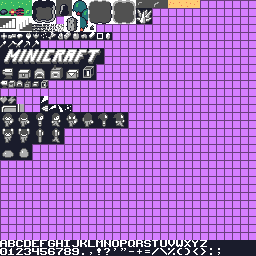
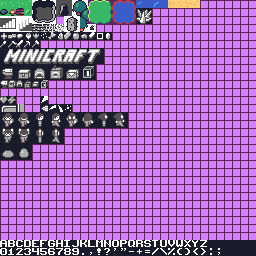
added working grass tile

Changed region(s): [[0.0, 0.0, 1.0, 0.9375]]

diff --git a/src/main/java/dev/toastcie/customcraft/tile/rules/TileRules.java b/src/main/java/dev/toastcie/customcraft/tile/rules/TileRules.java
@@ -38,6 +38,68 @@ public class TileRules {
         this.defaultBottomRight = defaultBottomRight;
     }
 
+    public static TileRules basicConnectedRules(
+            String connectedId,
+
+            ISprite defaultTopLeft,
+            ISprite defaultTopRight,
+            ISprite defaultBottomLeft,
+            ISprite defaultBottomRight,
+
+            // side sprites
+            ISprite linkedTop,
+            ISprite linkedRight,
+            ISprite linkedBottom,
+            ISprite linkedLeft,
+
+            // corner sprites
+            ISprite linkedTopLeft,
+            ISprite linkedTopRight,
+            ISprite linkedBottomRight,
+            ISprite linkedBottomLeft,
+
+            ISprite flat,
+
+            boolean fg
+    ) {
+        TileRules connectedRules = new TileRules(
+                linkedTopLeft,
+                linkedTopRight,
+                linkedBottomLeft,
+                linkedBottomRight);
+
+        // Top Left
+        connectedRules
+                .addTopLeftRule(TileRule.builder(defaultTopLeft, 0b000_001_011, connectedId, 13, fg))
+                .addTopLeftRule(TileRule.builder(flat, 0b000_001_010, connectedId, 11, fg))
+                .addTopLeftRule(TileRule.builder(linkedTop, 0b000_001_000, connectedId, 7, fg))
+                .addTopLeftRule(TileRule.builder(linkedLeft, 0b000_000_010, connectedId, 5, fg));
+
+        // Top Right
+        connectedRules
+                .addTopRightRule(TileRule.builder(defaultTopRight, 0b000_100_110, connectedId, 13, fg))
+                .addTopRightRule(TileRule.builder(flat, 0b000_100_010, connectedId, 11, fg))
+                .addTopRightRule(TileRule.builder(linkedTop, 0b000_100_000, connectedId, 7, fg))
+                .addTopRightRule(TileRule.builder(linkedRight, 0b000_000_010, connectedId, 5, fg));
+
+        // Bottom Left
+        connectedRules
+                .addBottomLeftRule(TileRule.builder(defaultBottomLeft, 0b011_001_000, connectedId, 13, fg))
+                .addBottomLeftRule(TileRule.builder(flat, 0b010_001_000, connectedId, 11, fg))
+                .addBottomLeftRule(TileRule.builder(linkedLeft, 0b010_000_000, connectedId, 7, fg))
+                .addBottomLeftRule(TileRule.builder(linkedBottom, 0b000_001_000, connectedId, 5, fg));
+
+        // Bottom Right
+        connectedRules
+                .addBottomRightRule(TileRule.builder(defaultBottomRight, 0b110_100_000, connectedId, 13, fg))
+                .addBottomRightRule(TileRule.builder(flat, 0b010_100_000, connectedId, 11, fg))
+                .addBottomRightRule(TileRule.builder(linkedRight, 0b010_000_000, connectedId, 7, fg))
+                .addBottomRightRule(TileRule.builder(linkedBottom, 0b000_100_000, connectedId, 5, fg));
+
+
+        return connectedRules.build();
+    }
+
     public static TileRules treeRulesBuilder(
             String TreeId,
 
@@ -64,6 +126,7 @@ public class TileRules {
 
         return treeRules.build();
     }
+
 
     public TileRules addTopLeftRule(TileRule... rules) {
         this.topLeftRules.addAll(Arrays.asList(rules));

diff --git a/src/main/java/dev/toastcie/customcraft/tile/tiletype/GrassTile.java b/src/main/java/dev/toastcie/customcraft/tile/tiletype/GrassTile.java
@@ -1,32 +1,36 @@
 package dev.toastcie.customcraft.tile.tiletype;
 
-import dev.toastcie.customcraft.data.GlobalData;
-import dev.toastcie.customcraft.level.Level;
-import dev.toastcie.customcraft.math.Vector4;
-import dev.toastcie.customcraft.tile.BaseTile;
+import dev.toastcie.customcraft.tile.ConnectedTile;
 import dev.toastcie.customcraft.tile.PictureManager;
+import dev.toastcie.customcraft.tile.rules.TileRules;
 
-import java.awt.*;
-import java.awt.image.BufferedImage;
-
-public class GrassTile extends BaseTile {
+public class GrassTile extends ConnectedTile {
     public GrassTile() {
         super("grass",
-                PictureManager.instance.getImage("grass_0"),
-                PictureManager.instance.getImage("grass_1"),
-                PictureManager.instance.getImage("grass_2"),
-                PictureManager.instance.getImage("grass_4")
+                TileRules.basicConnectedRules(
+                        "grass",
+
+                        PictureManager.instance.getImage("grass_0"),
+                        PictureManager.instance.getImage("grass_1"),
+                        PictureManager.instance.getImage("grass_2"),
+                        PictureManager.instance.getImage("grass_3"),
+
+
+                        // side sprites
+                        PictureManager.instance.getImage("grass_t"),
+                        PictureManager.instance.getImage("grass_r"),
+                        PictureManager.instance.getImage("grass_b"),
+                        PictureManager.instance.getImage("grass_l"),
+
+                        // corner sprites
+                        PictureManager.instance.getImage("grass_tl"),
+                        PictureManager.instance.getImage("grass_tr"),
+                        PictureManager.instance.getImage("grass_br"),
+                        PictureManager.instance.getImage("grass_bl"),
+
+                        PictureManager.instance.getImage("grass_0"),
+                        false
+                )
         );
-    }
-
-
-    @Override
-    public void place(Graphics g, Level level, int x, int y, int i, int j) {
-        Vector4<BufferedImage> tiles = getImage(level, i, j);
-        int hwidth = GlobalData.tileWidth / 2;
-        g.drawImage(tiles.x, x, y, hwidth, hwidth, null);
-        g.drawImage(tiles.y, x + hwidth, y, hwidth, hwidth, null);
-        g.drawImage(tiles.z, x, y + hwidth, hwidth, hwidth, null);
-        g.drawImage(tiles.w, x + hwidth, y + hwidth, hwidth, hwidth, null);
     }
 }

diff --git a/src/main/java/dev/toastcie/customcraft/tile/PictureManager.java b/src/main/java/dev/toastcie/customcraft/tile/PictureManager.java
@@ -74,11 +74,15 @@ public class PictureManager {
         addStaticImage("grass_1", new Rect<>(8, 0, 8, 8));
         addStaticImage("grass_2", new Rect<>(16, 0, 8, 8));
         addStaticImage("grass_3", new Rect<>(24, 0, 8, 8));
-        addAnimatedImage("grass_4", 10,
-                new Rect<>(0, 0, 8, 8),
-                new Rect<>(8, 0, 8, 8),
-                new Rect<>(16, 0, 8, 8),
-                new Rect<>(24, 0, 8, 8));
+
+        addStaticImage("grass_tl", new Rect<>(88, 0, 8, 8));
+        addStaticImage("grass_t", new Rect<>(96, 0, 8, 8));
+        addStaticImage("grass_tr", new Rect<>(104, 0, 8, 8));
+        addStaticImage("grass_l", new Rect<>(88, 8, 8, 8));
+        addStaticImage("grass_r", new Rect<>(104, 8, 8, 8));
+        addStaticImage("grass_bl", new Rect<>(88, 16, 8, 8));
+        addStaticImage("grass_b", new Rect<>(96, 16, 8, 8));
+        addStaticImage("grass_br", new Rect<>(104, 16, 8, 8));
 
         addStaticImage("flower", new Rect<>(8, 8, 8, 8));
 
@@ -90,5 +94,28 @@ public class PictureManager {
 
         addStaticImage("tree_connected_tl_br", new Rect<>(80, 8, 8, 8));
         addStaticImage("tree_connected_tr_bl", new Rect<>(80, 16, 8, 8));
+
+        //water
+        addStaticImage("water_tl", new Rect<>(112, 0, 8, 8));
+        addStaticImage("water_t", new Rect<>(120, 0, 8, 8));
+        addStaticImage("water_tr", new Rect<>(128, 0, 8, 8));
+        addStaticImage("water_l", new Rect<>(112, 8, 8, 8));
+        addStaticImage("water_flat", new Rect<>(120, 8, 8, 8));
+        addStaticImage("water_r", new Rect<>(128, 8, 8, 8));
+        addStaticImage("water_bl", new Rect<>(112, 16, 8, 8));
+        addStaticImage("water_b", new Rect<>(120, 16, 8, 8));
+        addStaticImage("water_br", new Rect<>(128, 16, 8, 8));
+
+        addAnimatedImage("water_anim_0", 30,
+                new Rect<>(136, 0, 8, 8),
+                new Rect<>(152, 0, 8, 8),
+                new Rect<>(144, 0, 8, 8),
+                new Rect<>(160, 0, 8, 8));
+
+        addAnimatedImage("water_anim_1", 30,
+                new Rect<>(144, 0, 8, 8),
+                new Rect<>(160, 0, 8, 8),
+                new Rect<>(136, 0, 8, 8),
+                new Rect<>(152, 0, 8, 8));
     }
 }

diff --git a/src/main/java/dev/toastcie/customcraft/level/generators/Superflat.java b/src/main/java/dev/toastcie/customcraft/level/generators/Superflat.java
@@ -20,29 +20,32 @@ public class Superflat extends Generator {
         BaseTile G = TileAtlas.GRASS_TILE;
         BaseTile F = TileAtlas.FLOWER_TILE;
         BaseTile T = TileAtlas.TREE_TILE;
+        BaseTile W = TileAtlas.WATER_TILE;
         BaseTile E = null;
 
-        BaseTile[][] decobg = {
-                {G, G, G, G, G, G, G, G, G, G},
-                {G, G, G, G, G, G, G, G, G, G},
-                {G, G, F, G, G, G, F, G, F, G},
-                {G, G, G, G, G, G, G, G, F, F},
-                {G, G, G, F, G, G, G, F, G, F},
-                {G, G, G, G, G, G, G, G, G, F},
-        };
+
         BaseTile[][] fg = {
                 {E, E, E, E, E, E, E, E, E, E},
-                {E, T, T, T, E, E, E, E, E, E},
-                {E, T, T, T, T, E, E, E, E, E},
-                {E, T, T, T, T, E, E, E, E, E},
-                {E, E, E, T, T, E, E, E, E, E},
                 {E, E, E, E, E, E, E, E, E, E},
+                {E, T, T, T, T, E, E, E, E, E},
+                {E, T, T, T, T, E, E, E, E, E},
+                {E, E, E, T, T, E, E, F, F, E},
+                {E, E, E, E, E, E, F, E, F, E},
+        };
+
+        BaseTile[][] bg = {
+                {G, G, G, G, G, G, G, G, G, G},
+                {G, W, W, W, W, W, W, W, W, G},
+                {G, G, G, G, G, G, G, W, W, G},
+                {G, G, G, G, G, G, G, G, G, G},
+                {G, G, G, G, G, G, G, G, G, G},
+                {G, G, G, G, G, G, G, G, G, G},
         };
 
         for (int x = 0; x < width; x++) {
             for (int y = 0; y < height; y++) {
-                level.setBackgroundTile(x, y, decobg[y % decobg.length][x % decobg[0].length]);
                 level.setTile(x, y, fg[y % fg.length][x % fg[0].length]);
+                level.setBackgroundTile(x, y, bg[y % bg.length][x % bg[0].length]);
             }
         }
 

diff --git a/src/main/java/dev/toastcie/customcraft/tile/tiletype/WaterTile.java b/src/main/java/dev/toastcie/customcraft/tile/tiletype/WaterTile.java
@@ -1,0 +1,33 @@
+package dev.toastcie.customcraft.tile.tiletype;
+
+import dev.toastcie.customcraft.tile.ConnectedTile;
+import dev.toastcie.customcraft.tile.PictureManager;
+import dev.toastcie.customcraft.tile.rules.TileRules;
+
+public class WaterTile extends ConnectedTile {
+
+    public WaterTile() {
+        super("water",
+                TileRules.basicConnectedRules(
+                        "water",
+                        PictureManager.instance.getImage("water_anim_0"),
+                        PictureManager.instance.getImage("water_flat"),
+                        PictureManager.instance.getImage("water_flat"),
+                        PictureManager.instance.getImage("water_anim_1"),
+
+                        PictureManager.instance.getImage("water_t"),
+                        PictureManager.instance.getImage("water_r"),
+                        PictureManager.instance.getImage("water_b"),
+                        PictureManager.instance.getImage("water_l"),
+
+                        PictureManager.instance.getImage("water_tl"),
+                        PictureManager.instance.getImage("water_tr"),
+                        PictureManager.instance.getImage("water_br"),
+                        PictureManager.instance.getImage("water_bl"),
+
+                        PictureManager.instance.getImage("water_flat"),
+                        false
+                )
+        );
+    }
+}

diff --git a/src/main/java/dev/toastcie/customcraft/tile/ClasicTile.java b/src/main/java/dev/toastcie/customcraft/tile/ClasicTile.java
@@ -1,0 +1,26 @@
+package dev.toastcie.customcraft.tile;
+
+import dev.toastcie.customcraft.data.GlobalData;
+import dev.toastcie.customcraft.level.Level;
+import dev.toastcie.customcraft.math.Vector4;
+import dev.toastcie.customcraft.tile.sprites.ISprite;
+
+import java.awt.*;
+import java.awt.image.BufferedImage;
+
+public abstract class ClasicTile extends BaseTile {
+
+    public ClasicTile(String id, ISprite tl, ISprite tr, ISprite bl, ISprite br) {
+        super(id, tl, tr, bl, br);
+    }
+
+    @Override
+    public void place(Graphics g, Level level, int x, int y, int i, int j) {
+        Vector4<BufferedImage> tiles = getImage(level, i, j);
+        int hwidth = GlobalData.tileWidth / 2;
+        g.drawImage(tiles.x, x, y, hwidth, hwidth, null);
+        g.drawImage(tiles.y, x + hwidth, y, hwidth, hwidth, null);
+        g.drawImage(tiles.z, x, y + hwidth, hwidth, hwidth, null);
+        g.drawImage(tiles.w, x + hwidth, y + hwidth, hwidth, hwidth, null);
+    }
+}

diff --git a/src/main/java/dev/toastcie/customcraft/tile/TileAtlas.java b/src/main/java/dev/toastcie/customcraft/tile/TileAtlas.java
@@ -3,12 +3,15 @@ package dev.toastcie.customcraft.tile;
 import dev.toastcie.customcraft.tile.tiletype.FlowerTile;
 import dev.toastcie.customcraft.tile.tiletype.GrassTile;
 import dev.toastcie.customcraft.tile.tiletype.TreeTile;
+import dev.toastcie.customcraft.tile.tiletype.WaterTile;
 
 public class TileAtlas {
     public static TileAtlas instance;
     public static BaseTile GRASS_TILE;
     public static BaseTile FLOWER_TILE;
     public static BaseTile TREE_TILE;
+
+    public static BaseTile WATER_TILE;
 
 
     private TileAtlas() {
@@ -18,6 +21,7 @@ public class TileAtlas {
         GRASS_TILE = new GrassTile();
         FLOWER_TILE = new FlowerTile();
         TREE_TILE = new TreeTile();
+        WATER_TILE = new WaterTile();
     }
 
     public static void initialize() {

diff --git a/src/main/java/dev/toastcie/customcraft/tile/rules/TileRule.java b/src/main/java/dev/toastcie/customcraft/tile/rules/TileRule.java
@@ -12,8 +12,8 @@ public class TileRule implements Comparable<TileRule> {
      * binary code representing the neighboring tiles configuration
      * <p>
      * 0 1 2
-     * 3 X 4
-     * 5 6 7
+     * 3 X 5
+     * 6 7 8
      * </p>
      */
     int binaryCode;
@@ -48,6 +48,9 @@ public class TileRule implements Comparable<TileRule> {
     }
 
     private String getTileId(Level level, int x, int y) {
+        if (x < 0 || y < 0 || x >= level.getWidth() || y >= level.getHeight()) {
+            return "";
+        }
         BaseTile tile = fg ? level.getTile(x, y) : level.getBackgroundTile(x, y);
         return tile != null ? tile.getId() : "";
     }

diff --git a/src/main/java/dev/toastcie/customcraft/screen/panels/GamePanel.java b/src/main/java/dev/toastcie/customcraft/screen/panels/GamePanel.java
@@ -78,7 +78,7 @@ public class GamePanel implements ILoopPanel {
     public void onClick(int mouseX, int mouseY) {
         Vector2<Float> canvasPos = cameraManager.CanvasToCamera(mouseX, mouseY);
         Vector2Int tilePos = new Vector2Int(canvasPos.getX().intValue(), canvasPos.getY().intValue());
-        level.setTile(tilePos.getX(), tilePos.getY(), TileAtlas.TREE_TILE);
+        level.setBackgroundTile(tilePos.getX(), tilePos.getY(), TileAtlas.WATER_TILE);
     }
 
 

diff --git a/src/main/java/dev/toastcie/customcraft/utils/SortedList.java b/src/main/java/dev/toastcie/customcraft/utils/SortedList.java
@@ -12,7 +12,7 @@ public class SortedList<E> extends AbstractList<E> {
     @Override
     public void add(int position, E e) {
         internalList.add(e);
-        Collections.sort(internalList, null);
+        internalList.sort(Collections.reverseOrder());
     }
 
     @Override

diff --git a/src/main/java/dev/toastcie/customcraft/level/Level.java b/src/main/java/dev/toastcie/customcraft/level/Level.java
@@ -42,4 +42,12 @@ public class Level {
         }
         this.backGroundBaseTiles[x][y] = tile;
     }
+
+    public int getWidth() {
+        return width;
+    }
+
+    public int getHeight() {
+        return height;
+    }
 }
